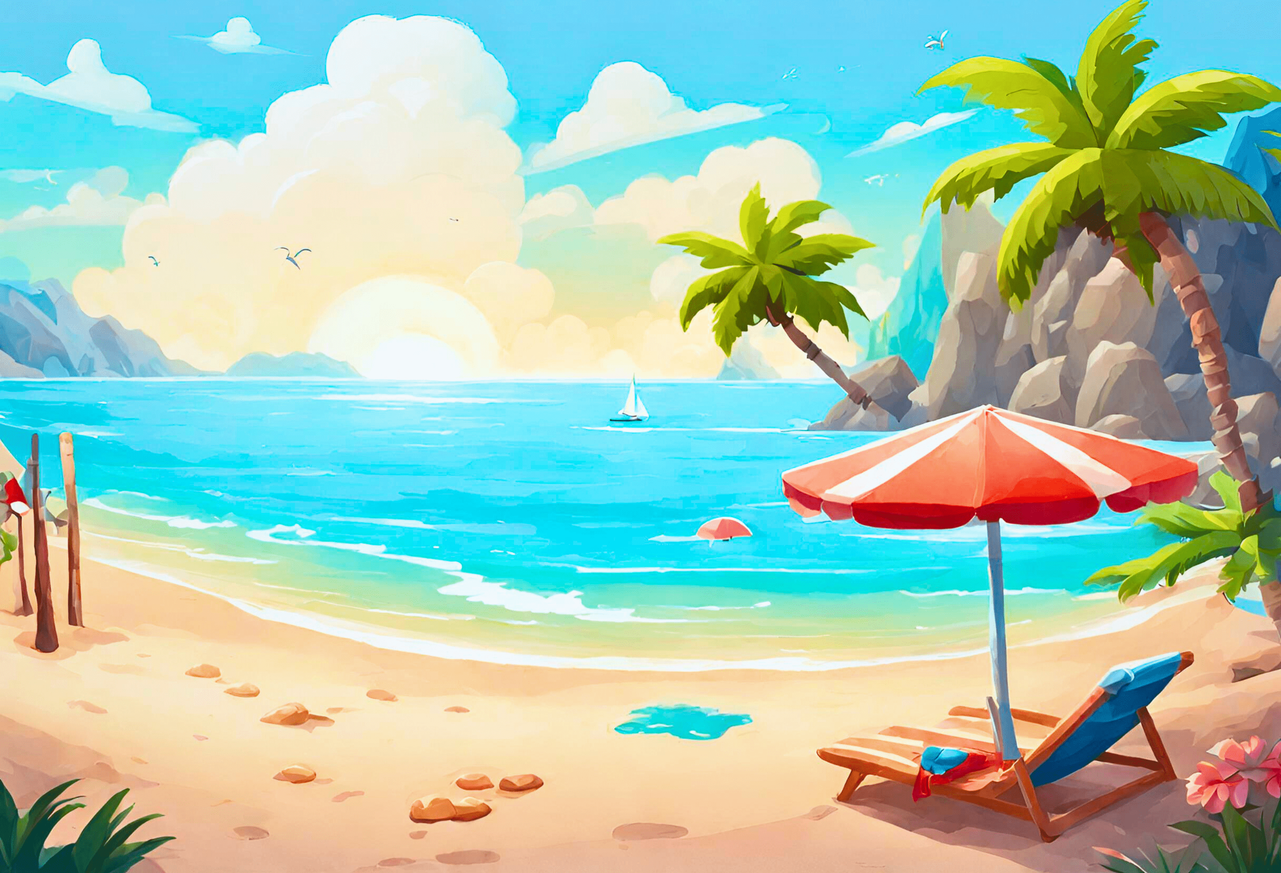
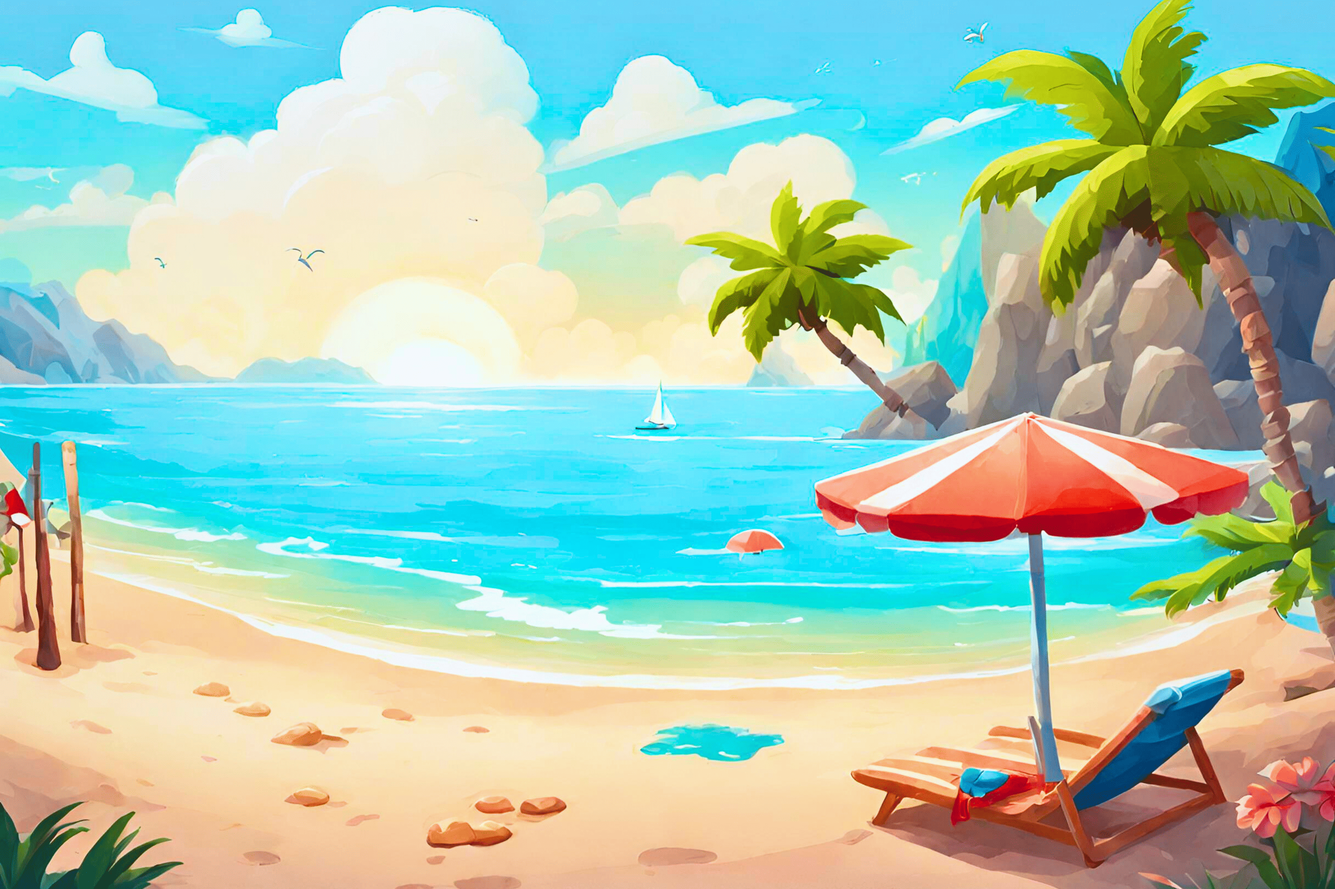
👔 make background image as sprite component

diff --git a/lib/river_warrior.dart b/lib/river_warrior.dart
@@ -1,3 +1,5 @@
+import 'package:flame/components.dart';
+import 'package:flame/extensions.dart';
 import 'package:flame/game.dart';
 import 'package:flame/palette.dart';
 import 'package:flame_audio/flame_audio.dart';
@@ -10,6 +12,7 @@ import 'package:river_warrior/src/pages/start.dart';
 class RiverWarrior extends FlameGame
     with SingleGameInstance, HasCollisionDetection {
   late final RouterComponent router;
+  late final SpriteComponent background;
   Color bladeColor = BasicPalette.white.color;
   int highScore = 0;
   int maxMistake = 3;
@@ -35,12 +38,25 @@ class RiverWarrior extends FlameGame
     ]);
     await images.loadAllImages();
     addAll([
+      background = SpriteComponent.fromImage(images.fromCache('river.png'),
+          anchor: Anchor.center),
       router = RouterComponent(initialRoute: 'start', routes: {
         'start': Route(StartPage.new),
         'play': Route(PlayPage.new, maintainState: false),
         'pause': PauseRoute(),
         'finish': FinishRoute(),
-      })
+      }),
     ]);
+  }
+
+  @override
+  void onGameResize(Vector2 size) {
+    super.onGameResize(size);
+    if (isMounted)
+      background
+        ..position = size / 2
+        ..size = size.x / size.y > 1.5
+            ? Vector2(size.x, size.x / 1.5)
+            : Vector2(size.y * 1.5, size.y);
   }
 }

diff --git a/lib/main.dart b/lib/main.dart
@@ -48,13 +48,6 @@ class _MyAppState extends State<MyApp> {
         theme: ThemeData(useMaterial3: true, colorSchemeSeed: Colors.pink),
         home: GameWidget<RiverWarrior>.controlled(
             gameFactory: RiverWarrior.new,
-            backgroundBuilder: (context) => Container(
-                  decoration: const BoxDecoration(
-                    image: DecorationImage(
-                        image: AssetImage('assets/images/river.png'),
-                        fit: BoxFit.cover),
-                  ),
-                ),
             overlayBuilderMap: const {
               'about': AboutScreen.new,
               'help': HelpOverlay.new,
